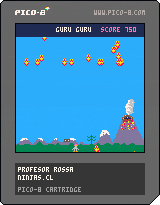
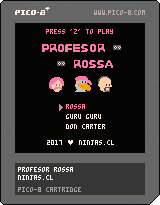
added message to press Z to play in menu

diff --git a/rossa.js b/rossa.js
@@ -68,7 +68,7 @@ var _cartdat=[
 0,0,0,0,0,0,0,0,0,0,0,0,0,0,0,0,0,16,0,0,0,0,0,0,0,0,0,0,0,0,0,0,0,0,0,0,0,0,0,0,0,0,0,0,0,0,0,0,0,0,0,0,0,0,0,0,0,0,0,0,0,0,0,0,0,0,0,0,0,0,0,0,0,0,0,0,0,0,0,0,0,0,0,0,0,16,0,0,0,0,0,0,0,0,0,0,0,0,0,0,0,0,0,0,0,0,0,0,0,0,0,0,0,0,0,0,0,0,0,0,0,0,0,0,0,0,0,0,0,0,0,0,0,0,0,0,0,0,0,0,0,0,0,0,0,0,0,0,0,0,0,0,0,16,0,0,0,0,0,0,0,0,0,0,0,0,0,0,0,0,0,0,0,0,0,0,0,0,0,0,0,0,0,0,0,0,0,0,0,0,0,0,0,0,0,0,0,0,0,0,0,0,0,0,0,0,0,0,0,0,0,0,0,0,0,0,0,0,0,0,0,16,0,0,0,0,0,0,0,0,0,0,0,0,0,0,0,0,0,0,0,0,0,0,0,0,0,0,0,0,0,0,0,0,0,0,
 0,0,0,0,0,0,0,0,0,0,0,0,0,0,0,0,0,0,0,0,0,0,0,0,0,0,0,0,0,0,0,0,0,16,0,0,0,0,0,0,0,0,0,0,0,0,0,0,0,0,0,0,0,0,0,0,0,0,0,0,0,0,0,0,0,0,0,0,0,0,0,0,0,0,0,0,0,0,0,0,0,0,0,0,0,0,0,0,0,0,0,0,0,0,0,0,0,0,0,0,0,16,0,0,0,0,0,0,0,0,0,0,0,0,0,0,0,0,0,0,0,0,0,0,0,0,0,0,0,0,0,0,0,0,0,0,0,0,0,0,0,0,0,0,0,0,0,0,0,0,0,0,0,0,0,0,0,0,0,0,0,0,0,0,0,0,0,0,0,16,0,0,0,0,0,0,0,0,0,0,0,0,0,0,0,0,0,0,0,0,0,0,0,0,0,0,0,0,0,0,0,0,0,0,0,0,0,0,0,0,0,0,0,0,0,0,0,0,0,0,0,0,0,0,0,0,0,0,0,0,0,0,0,0,0,0,0,16,0,0,0,0,0,0,0,0,0,0,0,0,0,0,0,0,0,0,
 0,0,0,0,0,0,0,0,0,0,0,0,0,0,0,0,0,0,0,0,0,0,0,0,0,0,0,0,0,0,0,0,0,0,0,0,0,0,0,0,0,0,0,0,0,0,0,0,0,16,0,0,0,0,0,0,0,0,0,0,0,0,0,0,0,0,0,0,0,0,0,0,0,0,0,0,0,0,0,0,0,0,0,0,0,0,0,0,0,0,0,0,0,0,0,0,0,0,0,0,0,0,0,0,0,0,0,0,0,0,0,0,0,0,0,0,0,16,0,0,0,0,0,0,0,0,0,0,0,0,0,0,0,0,0,0,0,0,0,0,0,0,0,0,0,0,0,0,0,0,0,0,0,0,0,0,0,0,0,0,0,0,0,0,0,0,0,0,0,0,0,0,0,0,0,0,0,0,0,0,0,0,0,0,0,16,0,0,0,0,0,0,0,0,0,0,0,0,0,0,0,0,0,0,0,0,0,0,0,0,0,0,0,0,0,0,0,0,0,0,0,0,0,0,0,0,0,0,0,0,0,0,0,0,0,0,0,0,0,0,0,0,0,0,0,0,0,0,0,0,0,0,0,16,0,0,
-58,99,58,0,81,193,0,0,0,45,0,45,2,28,30,27,18,17,31,27,30,2,30,27,31,31,13,1,61,18,26,21,26,22,13,31,56,15,24,60,45,15,13,25,21,24,27,60,23,31,32,30,27,61,46,5,3,4,10,1,62,39,31,37,31,32,17,25,2,15,27,26,31,32,13,26,32,31,2,13,26,16,2,32,13,14,24,17,31,1,16,17,14,33,19,2,51,2,18,13,24,31,17,1,25,13,36,59,21,26,32,17,19,17,30,61,20,6,5,10,9,10,1,14,21,32,25,13,28,59,33,26,21,32,62,24,11,2,68,42,21,36,17,24,31,1,1,15,27,24,27,30,31,63,30,44,1,0,9,14,24,13,15,23,64,25,3,57,1,0,9,16,13,30,23,59,14,24,33,17,65,25,4,61,96,28,33,30,28,24,61,34,5,62,98,19,30,17,17,26,66,40,63,19,14,30,27,35,60,44,7,61,141,13,37,69,24,8,64,31,24,21,19,20,32,61,97,9,66,16,35,20,21,32,65,44,10,66,28,30,17,16,69,39,67,22,27,30,13,26,19,67,35,12,68,19,
+58,99,58,0,82,35,0,0,0,45,0,45,2,28,30,27,18,17,31,27,30,2,30,27,31,31,13,1,61,18,26,21,26,22,13,31,56,15,24,60,45,15,13,25,21,24,27,60,23,31,32,30,27,61,46,5,3,4,10,1,62,39,31,37,31,32,17,25,2,15,27,26,31,32,13,26,32,31,2,13,26,16,2,32,13,14,24,17,31,1,16,17,14,33,19,2,51,2,18,13,24,31,17,1,25,13,36,59,21,26,32,17,19,17,30,61,20,6,5,10,9,10,1,14,21,32,25,13,28,59,33,26,21,32,62,24,11,2,68,42,21,36,17,24,31,1,1,15,27,24,27,30,31,63,30,44,1,0,9,14,24,13,15,23,64,25,3,57,1,0,9,16,13,30,23,59,14,24,33,17,65,25,4,61,96,28,33,30,28,24,61,34,5,62,98,19,30,17,17,26,66,40,63,19,14,30,27,35,60,44,7,61,141,13,37,69,24,8,64,31,24,21,19,20,32,61,97,9,66,16,35,20,21,32,65,44,10,66,28,30,17,16,69,39,67,22,27,30,13,26,19,67,35,12,68,19,
 37,17,24,24,27,35,68,32,69,33,66,106,4,68,46,69,105,68,40,21,26,16,21,19,27,70,39,68,37,28,21,26,72,35,4,68,37,28,17,13,15,20,72,32,8,1,45,1,1,14,33,32,32,79,31,74,75,24,17,18,76,43,74,42,30,69,43,74,86,33,28,73,109,72,75,73,39,13,73,83,14,72,43,64,41,31,15,75,85,44,1,2,35,21,16,32,66,51,5,71,31,2,20,17,64,108,5,11,67,35,91,18,19,13,25,17,2,30,17,24,13,32,74,21,87,81,61,52,63,63,18,30,61,31,83,46,83,19,2,33,28,16,62,22,84,43,45,64,28,90,24,78,49,61,42,60,60,86,69,2,0,9,25,17,26,33,63,82,60,60,59,21,16,85,52,86,22,2,0,9,28,24,83,51,86,16,60,76,61,109,86,16,61,81,96,16,30,92,38,86,22,62,83,17,96,27,86,54,2,0,9,27,34,95,54,86,17,60,76,65,108,86,22,2,0,9,66,88,11,1,2,70,32,18,28,95,38,6,69,63,18,36,69,109,15,24,21,96,99,2,0,9,32,20,93,18,
 65,107,20,33,67,55,65,59,91,27,25,65,102,35,13,24,99,36,91,17,2,94,22,18,17,59,84,52,91,35,62,72,59,19,27,24,93,47,4,4,67,72,31,27,26,19,76,107,106,24,30,91,42,76,60,24,17,34,17,24,73,127,75,49,83,45,59,73,84,7,71,71,32,21,83,108,95,25,108,63,61,34,42,43,80,46,31,17,114,16,16,84,63,74,68,16,21,18,18,21,15,33,24,32,104,39,83,44,104,24,34,87,48,81,48,0,9,31,28,17,103,59,4,56,8,77,69,115,45,31,15,27,30,111,38,116,153,99,47,92,41,56,67,46,56,91,53,59,15,27,33,118,22,118,36,3,61,173,35,13,118,52,1,18,33,26,15,32,21,27,26,2,42,69,86,43,1,106,27,18,97,48,64,66,31,2,48,118,27,2,32,20,17,26,1,0,9,112,20,32,33,30,26,124,84,0,9,89,19,1,0,9,111,20,67,244,67,100,63,18,69,241,69,81,64,29,0,9,60,19,60,70,60,60,135,16,3,61,246,65,31,79,128,18,24,30,70,120,2,137,31,4,69,18,123,21,
 27,15,13,24,2,73,82,71,73,95,21,53,2,82,88,70,34,73,98,77,249,30,1,0,9,74,32,76,63,74,83,80,242,72,174,74,252,82,96,50,68,45,138,27,77,22,77,240,84,164,79,84,132,46,80,58,42,78,243,87,132,41,80,32,86,74,142,30,43,1,82,47,90,65,120,68,56,96,138,88,153,43,2,88,19,92,135,62,148,71,191,100,102,83,70,1,78,144,65,150,100,27,83,36,103,76,2,0,45,76,210,105,42,43,1,62,22,93,86,67,245,61,28,71,244,132,124,71,163,71,98,134,121,100,160,70,98,101,231,110,41,107,175,102,68,2,2,2,2,103,191,64,205,86,40,2,86,40,73,29,62,250,117,33,105,36,73,211,143,79,72,109,178,16,33,31,17,18,33,24,2,18,178,18,150,21,13,32,21,26,19,174,26,2,178,41,13,26,21,25,61,17,27,26,179,38,126,27,30,37,2,110,31,148,32,117,75,21,31,59,148,62,115,205,150,49,80,27,71,29,61,110,106,44,61,71,106,42,129,23,73,25,95,100,117,174,94,21,75,35,0,9,0,9,64,69,
@@ -92,9 +92,9 @@ var _cartdat=[
 7,206,84,202,94,37,17,24,24,27,35,64,197,28,30,17,31,31,2,0,39,38,0,39,2,32,27,2,60,28,167,46,0,34,252,45,36,252,17,5,210,23,245,35,10,132,135,35,20,250,24,242,155,240,60,25,17,26,33,240,66,60,59,56,24,27,19,27,241,66,60,127,251,34,109,64,115,40,5,8,212,28,108,54,106,46,106,92,107,58,106,91,9,214,28,211,30,59,118,37,10,108,37,60,45,196,51,1,66,165,222,254,42,118,41,212,60,113,58,2,27,30,2,68,179,56,61,51,123,22,114,79,61,255,61,51,125,21,215,29,63,183,32,27,218,21,68,62,36,238,25,227,136,62,215,221,32,61,157,64,246,64,54,122,106,64,150,14,21,32,74,46,33,134,27,249,58,233,120,42,68,215,124,41,50,67,159,73,222,78,54,228,59,231,43,61,252,59,231,62,71,247,63,71,240,111,138,123,73,254,234,78,64,241,69,88,215,92,92,49,28,27,200,17,164,47,1,140,17,31,200,31,210,51,139,35,92,119,139,59,138,60,225,42,148,24,45,245,31,212,109,140,36,216,76,144,
 84,133,56,63,97,122,40,228,46,249,32,147,75,145,32,64,18,93,124,27,28,241,35,99,49,100,84,61,82,225,242,225,66,157,66,71,118,95,68,72,85,61,110,159,32,73,88,96,74,63,103,237,42,61,169,37,252,43,162,68,212,33,33,181,38,111,174,61,205,5,61,254,63,171,6,63,252,70,109,77,127,69,100,235,76,62,209,62,224,232,77,109,22,238,90,155,80,254,51,176,17,28,176,114,33,28,254,98,240,113,31,18,175,35,243,74,18,36,31,56,15,24,21,15,23,225,119,244,189,65,174,204,128,70,169,119,21,241,40,247,81,176,65,207,222,239,146,65,97,91,58,65,240,65,240,73,103,64,255,64,223,95,93,236,112,70,242,70,147,161,45,235,102,249,139,79,180,16,27,35,26,79,246,79,246,79,246,79,246,79,246,79,246,69,243,79,244,79,244,84,244,84,244,84,244,84,244,79,245,79,245,79,213,84,184,254,89,211,40,7,148,82,11,146,59,90,204,95,252,254,76,112,235,212,34,214,94,171,90,130,55,162,37,198,238,186,87,249,83,32,21,32,223,27,62,246,
 13,61,73,62,204,27,18,18,31,17,32,102,76,204,176,61,73,68,176,206,41,206,248,21,94,110,74,247,105,242,242,62,220,134,75,115,126,145,75,244,75,116,204,214,77,185,75,81,206,233,74,255,74,255,209,116,74,254,74,254,211,91,248,163,89,243,114,223,74,158,5,74,142,139,145,90,242,90,242,230,32,127,123,90,242,62,246,91,92,90,243,90,51,65,244,91,110,95,206,236,47,67,255,238,38,125,118,170,31,42,149,116,171,59,57,36,57,197,68,215,89,242,53,0,34,57,2,8,213,31,11,214,83,214,86,33,30,43,0,9,1,1,2,218,82,170,57,233,38,62,93,12,253,28,2,187,55,159,92,43,60,95,63,114,16,204,20,173,67,66,80,4,3,220,36,63,53,82,98,63,21,182,155,173,241,173,17,157,64,154,74,153,151,61,129,194,26,219,35,117,142,158,66,25,33,32,17,60,21,31,21,15,64,37,61,168,61,19,159,124,27,26,19,31,56,232,18,30,27,179,26,65,149,119,90,66,247,59,21,16,117,40,147,133,69,233,63,241,63,33,127,155,222,207,69,107,
-189,247,71,100,241,95,5,3,4,10,2,0,135,2,26,21,26,22,13,170,45,237,54,221,215,220,45,230,43,205,240,218,89,244,51,244,146,239,126,175,68,179,178,13,179,97,77,244,77,212,250,42,174,155,244,118,1,0,45,0,45,2,25,13,21,26,2,236,110,31,237,136,59,21,225,27,89,74,86,251,253,17,87,159,186,22,62,248,187,26,5,62,247,36,6,94,74,88,177,94,227,85,93,18,30,191,22,252,32,241,59,192,51,32,21,192,40,17,15,27,26,16,61,89,61,135,70,45,254,29,62,35,66,132,154,39,202,37,19,151,93,61,196,31,56,24,17,34,17,24,4,147,50,63,161,15,27,30,104,38,17,28,223,34,198,62,159,80,24,21,34,158,110,201,52,16,21,18,18,21,15,33,24,32,37,61,75,62,172,64,54,71,111,163,240,162,204,66,113,162,153,162,248,17,253,28,68,122,162,150,162,245,162,37,71,115,131,109,162,243,212,21,2,17,26,169,26,21,217,20,242,29,25,235,91,61,133,34,20,215,17,27,33,234,80,3,61,218,31,20,27,35,21,26,19,59,
-74,104,127,81,133,72,60,155,0,9,18,13,24,31,17,65,215,24,13,31,144,32,26,21,24,129,25,222,64,89,61,91,53,59,67,181,1,241,186,220,122,2,118,67,232,202,229,92,65,99,85,159,31,28,17,17,148,39,4,56,8,136,107,106,137,33,28,16,237,25,249,38,2,231,71,95,72,105,54,61,210,105,36,143,27,62,199,105,38,63,170,136,111,73,107,66,64,105,82,65,36,61,166,105,80,66,43,2,2,69,251,131,94,1,2,15,24,63,42,76,93,133,84,241,57,106,52,61,161,27,34,249,26,62,98,1,2,246,22,16,17,14,33,19,245,75,153,40,254,77,208,44,191,19,60,111,246,40,77,27,93,21,0,9,30,17,15,32,18,21,24,24,42,3,57,37,159,45,31,15,30,17,17,26,56,35,21,16,32,20,57,194,59,8,158,48,209,86,14,24,13,15,23,161,38,162,24,166,78,118,253,93,141,56,56,2,0,34,2,120,99,169,16,95,118,36,65,26,166,26,163,134,215,16,30,17,16,77,38,241,51,77,30,65,157,125,77,62,111,65,53,127,80,147,19,64,
-85,146,57,174,31,37,168,45,65,184,37,17,24,24,27,35,172,25,250,44,169,57,0,0,0,0,0,0,0,0,0,0,0,0,0,0,0,0,0,0,0,0,0,0,0,0,0,0,0,0,0,0,0,0,0,0,0,0,0,0,0,0,0,0,0,0,0,0,0,0,0,0,0,0,0,0,0,0,0,0,0,0,0,0,0,0,0,0,0,0,0,0,0,0,0,0,0,0,0,0,0,0,0,0,0,0,0,0,0,0,0,0,0,0,0,0,0,0,0,0,0,0,0,0,0,0,0,0,0,0,0,0,0,0,0,0,0,0,0,0,0,0,0,0,0,0,0,0,0,0,0,0,0,0,0,0,0,0,0,0,0,0,0,0,0,0,0,0,0,0,0,0,0,0,0,0,0,0,0,0,0,0,0,0,0,0,0,0,0,0,0,0,0,0,0,0,0,0,0,0,0,0,0,0,0,0,0,0,0,0,0,0,0,0,0,0,0,0,0,0,0,0,0,0,0,0,0,0,0,0,0,0,0,0,0,0,0,0,0,0,0,0,0,0,0,0,0,0,0,0,0,0,0,0,0,0,
+189,247,71,100,237,250,237,26,241,46,237,55,221,216,220,46,232,44,220,233,37,239,30,4,61,73,135,144,239,88,248,97,5,3,4,10,2,0,135,2,26,21,26,22,13,176,47,66,241,66,81,236,45,211,242,224,91,250,53,250,148,246,112,181,70,185,180,13,185,99,83,246,83,214,145,34,180,157,250,120,1,0,45,0,45,2,25,13,21,26,2,243,96,31,243,138,59,21,231,29,95,76,92,253,255,16,94,145,192,24,62,248,193,28,5,62,247,36,6,100,76,94,179,100,229,91,95,18,30,197,24,225,43,247,61,198,53,32,21,198,42,17,15,27,26,16,61,89,61,135,70,45,254,17,62,35,66,132,160,41,208,39,19,157,95,61,196,31,56,24,17,34,17,24,4,153,52,63,161,15,27,30,110,40,17,28,229,36,205,48,165,82,24,21,34,165,96,207,54,16,21,18,18,21,15,33,24,32,37,61,75,62,172,64,54,71,111,169,242,168,206,66,113,168,155,168,250,17,252,21,68,122,168,152,168,247,168,39,71,115,137,111,168,245,218,23,2,17,26,175,28,21,223,22,248,31,
+25,241,93,61,133,34,20,221,19,27,33,240,82,3,61,218,31,20,27,35,21,26,19,59,74,104,133,83,139,74,60,155,0,9,18,13,24,31,17,65,215,24,13,31,150,34,26,21,24,135,27,228,66,89,61,91,53,59,67,181,1,247,188,226,124,2,124,69,238,204,235,94,65,99,85,159,31,28,17,17,154,41,4,56,8,142,109,106,137,33,28,16,243,27,142,23,1,2,237,73,95,72,105,54,61,210,105,36,149,29,62,199,105,38,63,170,143,97,73,107,66,64,105,82,65,36,61,166,105,80,66,43,2,2,69,251,138,80,1,2,15,24,63,42,76,93,139,86,247,59,106,52,61,161,27,34,253,28,62,98,1,2,252,24,16,17,14,33,19,251,77,159,42,24,27,15,13,24,197,21,105,29,89,21,60,95,252,42,77,27,93,21,0,9,30,17,15,32,18,21,24,24,42,3,57,37,165,47,31,15,30,17,17,26,56,35,21,16,32,20,57,200,61,8,164,50,215,88,14,24,13,15,140,25,63,59,173,64,118,253,93,141,56,56,2,0,34,2,120,99,175,18,95,118,36,65,
+26,172,28,169,136,221,18,30,17,16,77,38,247,53,77,30,65,157,125,77,62,111,65,53,127,80,153,20,64,85,146,57,181,17,37,174,47,65,184,37,17,24,24,27,35,178,27,251,44,175,59,0,0,0,0,0,0,0,0,0,0,0,0,0,0,0,0,0,0,0,0,0,0,0,0,0,0,0,0,0,0,0,0,0,0,0,0,0,0,0,0,0,0,0,0,0,0,0,0,0,0,0,0,0,0,0,0,0,0,0,0,0,0,0,0,0,0,0,0,0,0,0,0,0,0,0,0,0,0,0,0,0,0,0,0,0,0,0,0,0,0,0,0,0,0,0,0,0,0,0,0,0,0,0,0,0,0,0,0,0,0,0,0,0,0,0,0,0,0,0,0,0,0,0,0,0,0,0,0,0,0,0,0,0,0,0,0,0,0,0,0,0,0,0,0,0,0,0,0,0,0,0,0,0,0,0,0,0,0,0,0,0,0,0,0,0,0,0,0,0,0,0,0,0,0,0,0,0,0,0,0,0,0,0,0,0,0,0,0,0,0,0,0,0,0,0,0,0,0,0,0,0,0,0,0,0,
 0,0,0,0,0,0,0,0,0,0,0,0,0,0,0,0,0,0,0,0,0,0,0,0,0,0,0,0,0,0,0,0,0,0,0,0,0,0,0,0,0,0,0,0,0,0,0,0,0,0,0,0,0,0,0,0,0,0,0,0,0,0,0,0,0,0,0,0,0,0,0,0,0,0,0,0,0,0,0,0,0,0,0,0,0,0,0,0,0,0,0,0,0,0,0,0,0,0,0,0,0,0,0,0,0,0,0,0,0,0,0,0,0,0,0,0,0,0,0,0,0,0,0,0,0,0,0,0,0,0,0,0,0,0,0,0,0,0,0,0,0,0,0,0,0,0,0,0,0,0,0,0,0,0,0,0,0,0,0,0,0,0,0,0,0,0,0,0,0,0,0,0,0,0,0,0,0,0,0,0,0,0,0,0,0,0,0,0,0,0,0,0,0,0,0,0,0,0,0,0,0,0,0,0,0,0,0,0,0,0,0,0,0,0,0,0,0,0,0,0,0,0,0,0,0,0,0,0,0,0,0,0,0,0,0,0,0,0,0,0,0,0,0,0,0,0,0,0,0,0,0,0,0,0,0,0,
 0,0,0,0,0,0,0,0,0,0,0,0,0,0,0,0,0,0,0,0,0,0,0,0,0,0,0,0,0,0,0,0,0,0,0,0,0,0,0,0,0,0,0,0,0,0,0,0,0,0,0,0,0,0,0,0,0,0,0,0,0,0,0,0,0,0,0,0,0,0,0,0,0,0,0,0,0,0,0,0,0,0,0,0,0,0,0,0,0,0,0,0,0,0,0,0,0,0,0,0,0,0,0,0,0,0,0,0,0,0,0,0,0,0,0,0,0,0,0,0,0,0,0,0,0,0,0,0,0,0,0,0,0,0,0,0,0,0,0,0,0,0,0,0,0,0,0,0,0,0,0,0,0,0,0,0,0,0,0,0,0,0,0,0,0,0,0,0,0,0,0,0,0,0,0,0,0,0,0,0,0,0,0,0,0,0,0,0,0,0,0,0,0,0,0,0,0,0,0,0,0,0,0,0,0,0,0,0,0,0,0,0,0,0,0,0,0,0,0,0,0,0,0,0,0,0,0,0,0,0,0,0,0,0,0,0,0,0,0,0,0,0,0,0,0,0,0,0,0,0,0,0,0,0,0,0,
 0,0,0,0,0,0,0,0,0,0,0,0,0,0,0,0,0,0,0,0,0,0,0,0,0,0,0,0,0,0,0,0,0,0,0,0,0,0,0,0,0,0,0,0,0,0,0,0,0,0,0,0,0,0,0,0,0,0,0,0,0,0,0,0,0,0,0,0,0,0,0,0,0,0,0,0,0,0,0,0,0,0,0,0,0,0,0,0,0,0,0,0,0,0,0,0,0,0,0,0,0,0,0,0,0,0,0,0,0,0,0,0,0,0,0,0,0,0,0,0,0,0,0,0,0,0,0,0,0,0,0,0,0,0,0,0,0,0,0,0,0,0,0,0,0,0,0,0,0,0,0,0,0,0,0,0,0,0,0,0,0,0,0,0,0,0,0,0,0,0,0,0,0,0,0,0,0,0,0,0,0,0,0,0,0,0,0,0,0,0,0,0,0,0,0,0,0,0,0,0,0,0,0,0,0,0,0,0,0,0,0,0,0,0,0,0,0,0,0,0,0,0,0,0,0,0,0,0,0,0,0,0,0,0,0,0,0,0,0,0,0,0,0,0,0,0,0,0,0,0,0,0,0,0,0,0,

diff --git a/index.html b/index.html
@@ -4,7 +4,8 @@
         <meta http-equiv="X-UA-Compatible" content="IE=edge">
         <title>Profesor Rossa - PICO-8 Cartridge</title>
         <meta name="description" content="Profesor Rossa Game">
-        <meta author="Camilo Castro - ninjas.cl">
+        <meta author="Ninjas.cl">
+
 <STYLE TYPE="text/css">
 <!--
 
@@ -54,6 +55,13 @@ canvas{
 
 <body bgcolor=#303030>
 
+<div style="color:white">
+<center>
+	<h1>Creado por Camilo Castro.</h1>
+	<a href="http://ninjas.cl" style="color:white">Ninjas.cl</a>
+	<p>Marzo 2017</p>
+</center>
+</div>
 	<br><br><br>
 
 	<center><div style="width:512px;">
